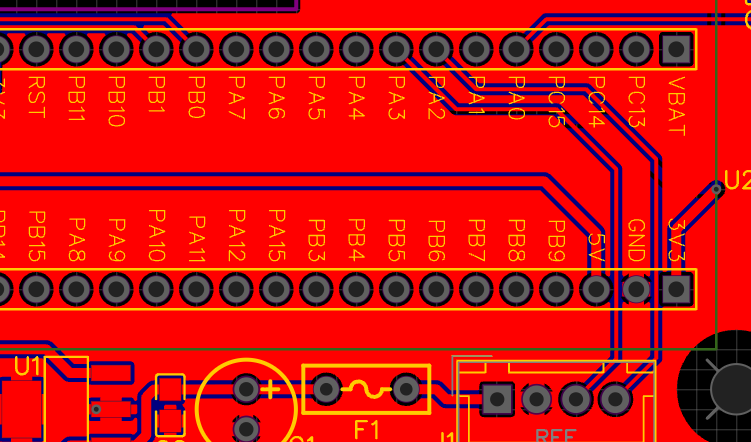
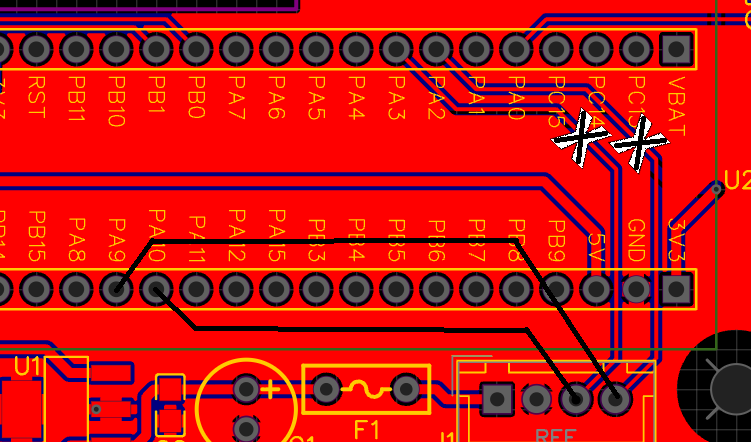
Umbauanleitung verbessert
- Screenshot Layout mit nötigen Modifikationen ergänzt
- Beschreibung ToDo angepasst

diff --git a/tt_voltmeter/documentation/Hardware-Umbau-USART1.md b/tt_voltmeter/documentation/Hardware-Umbau-USART1.md
@@ -46,12 +46,12 @@ Voltmeter: `huart1` auf `USART1`.)
 
 ## Layout
 
-Ausschnitt des Print-Layouts mit der USART1-Verdrahtung (PA9/PA10) und dem Controller-Stecker:
+Ausschnitt des Print-Layouts mit der beschriebenen Modifikation:
+1. Verbindungen zu PA2 und P3 unterbrechen
+2. Neue Verbindungen zu PA9 und PA10 legen
 
 ![Layout-Ausschnitt USART1-Umbau](Hardware-Umbau-USART1-Layout.png)
 
-> **TODO (Bild ablegen):** Screenshot als `Hardware-Umbau-USART1-Layout.png` in diesem Ordner
-> (`tt_voltmeter/documentation/`) speichern.
 
 ## Status
 
